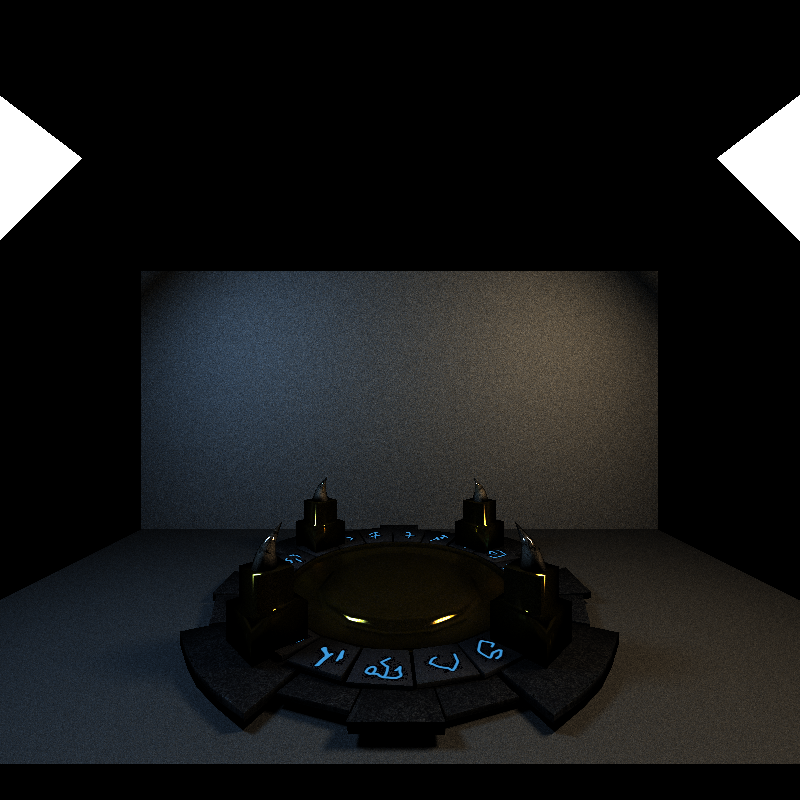
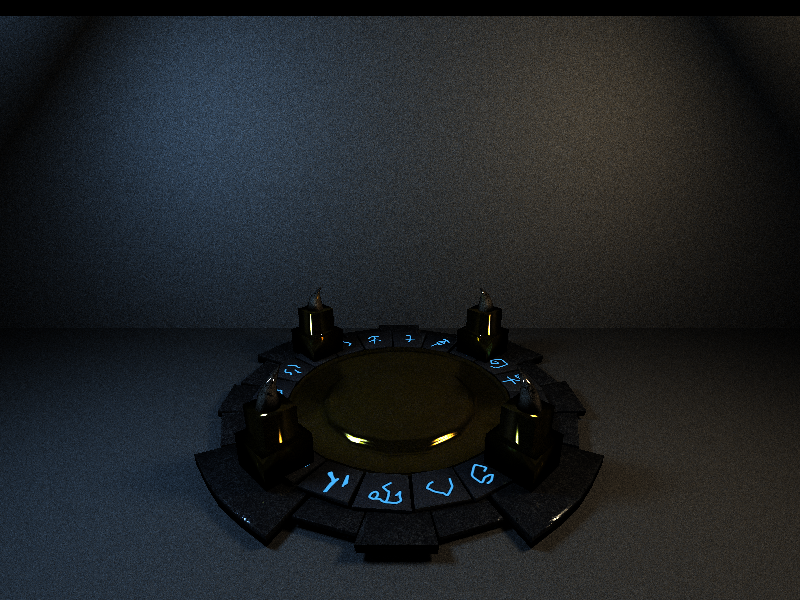
texture files better

diff --git a/src/utilities.h b/src/utilities.h
@@ -12,10 +12,10 @@
 
 // Performance and Feature Switches
 
-#define SORTING_MATERIAL 0//dpes not help performance
+#define SORTING_MATERIAL 0//does not help performance
 #define CACHING_FIRST 1
-#define ANTIALIASING 1
-#define USING_OIDN 1
+#define ANTIALIASING 0
+#define USING_OIDN 0
 #define ANY_REFRACTIVE 0
 #define BOUNDING_BOXES 1
 
